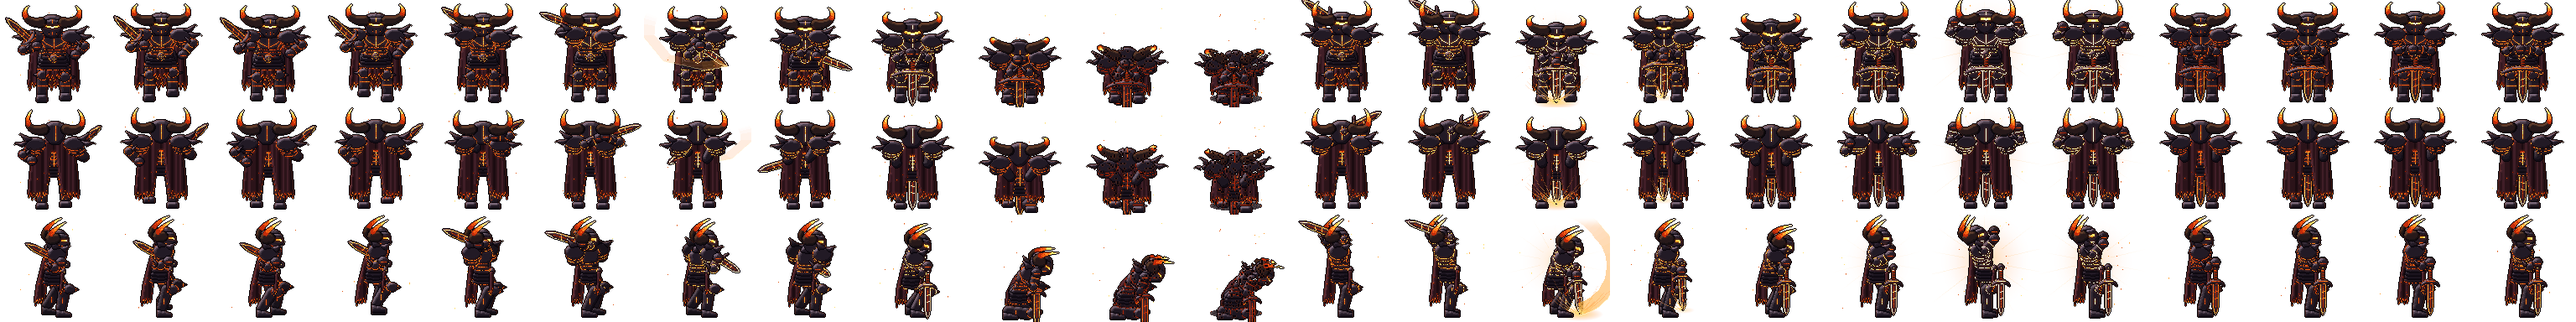
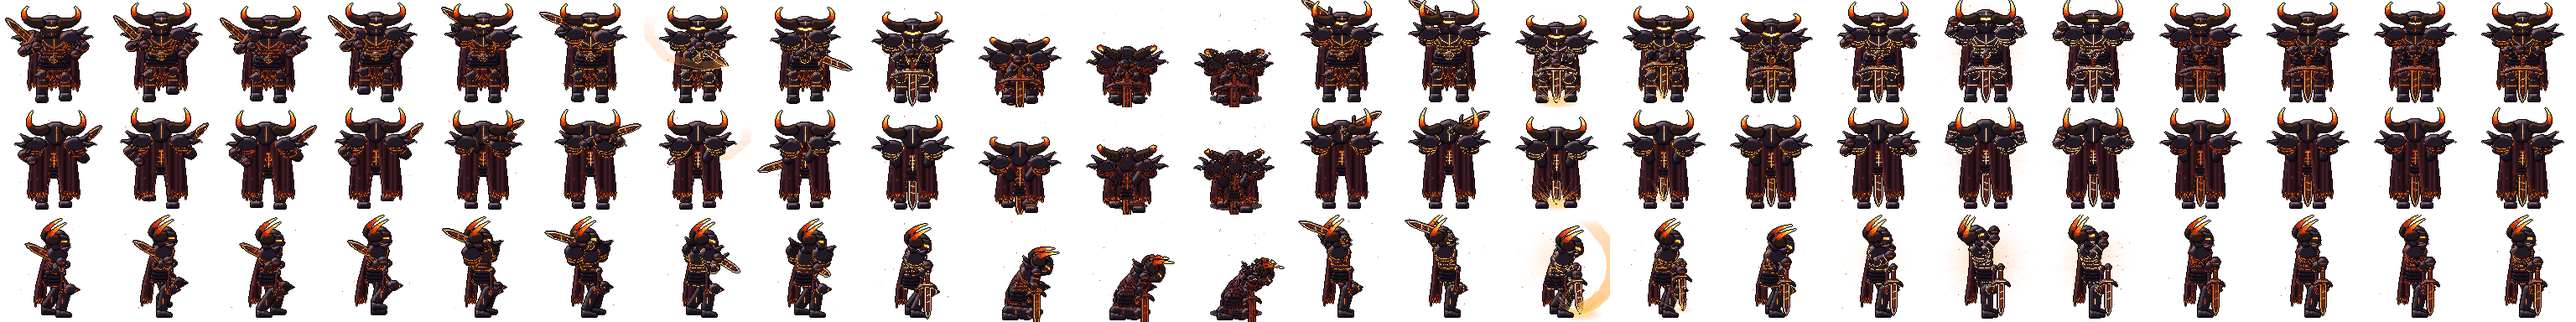
Рейд-босс: доводка спрайта Рыцаря Хаоса (заметнее шаг: покачивание, подъём ног, наклон)

diff --git a/tools/gen/raidboss.ts b/tools/gen/raidboss.ts
@@ -962,8 +962,8 @@ function idlePoses(): Pose[] {
 /** Шаг: меч на отлёте в правой руке, левая рука качается, корпус переваливается, плащ тянется назад. */
 function walkPoses(): Pose[] {
   return [0, 1, 2, 3].map((i) => {
-    const bob = [-1.4, 0.9, -1.4, 0.9][i];
-    const ry = [9, 1, -8, 1][i], ly = [-8, 1, 9, 1][i], rz = [0, 0, 0, 6][i], lz = [0, 6, 0, 0][i];
+    const bob = [-2.2, 1.4, -2.2, 1.4][i];
+    const ry = [9, 1, -8, 1][i], ly = [-8, 1, 9, 1][i], rz = [0, 0, 0, 9][i], lz = [0, 9, 0, 0][i];
     const H = V(20, 9, 67 + bob * 0.5);
     const carry = (d: V3): SwordT => {
       const D = norm(d);
@@ -971,7 +971,7 @@ function walkPoses(): Pose[] {
     };
     const dz = [0, 0.04, 0, 0.04][i];
     return base({
-      seed: 100 + i, bob, lean: 2.5, yaw: [0.1, 0, -0.1, 0][i], sway: [1.3, 0, -1.3, 0][i], legs: [{ y: ry, z: rz }, { y: ly, z: lz }],
+      seed: 100 + i, bob, lean: 2.5, yaw: [0.1, 0, -0.1, 0][i], sway: [2.2, 0, -2.2, 0][i], legs: [{ y: ry, z: rz }, { y: ly, z: lz }],
       sword: carry(V(0.72, -0.2, 0.62 + dz)), swordView: { side: carry(V(0.25, -0.85, 0.46 + dz)) },
       handL: V(-26, [8, 2, -8, 2][i], 55 + [0.5, 0, 0.5, 0][i]), cloak: 4 + [0, 1, 0, 1][i], heat: 0.5 + [0, 0.1, 0, 0.1][i], embers: 6,
     });
